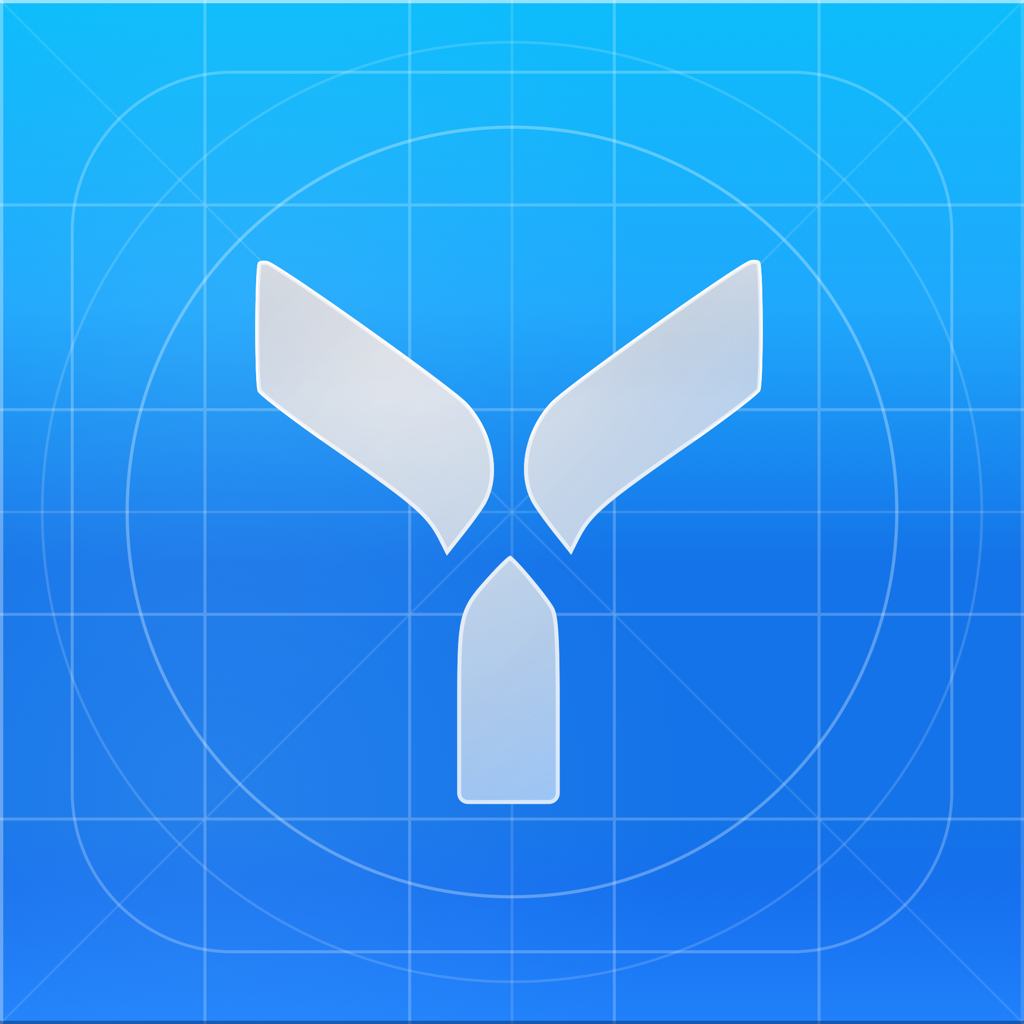
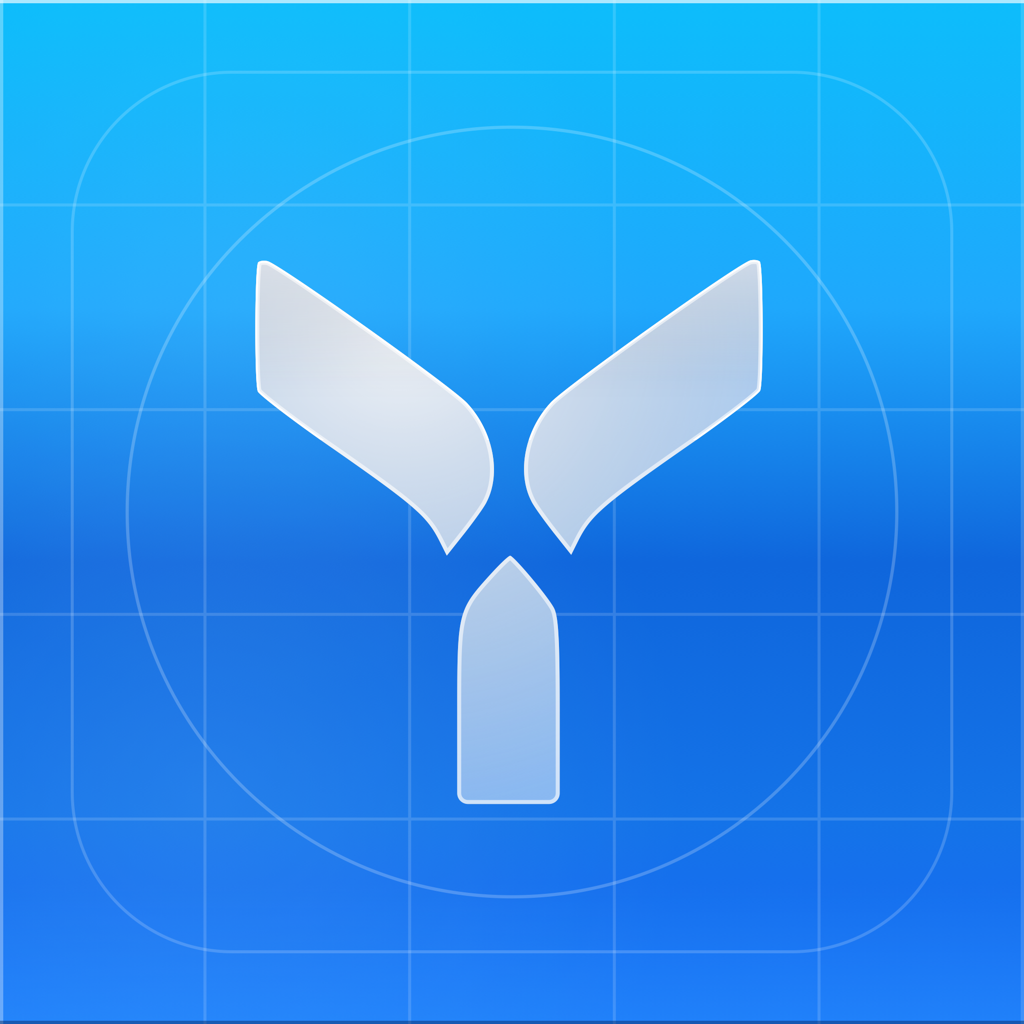
refine(brand): judge at dock size — App Store mass, quiet wireframe
Close-up tuning kept lightening the icon into a pale tile with a pale
mark. Judged at 20-96px against the references instead: deepen the tile
to App Store mass, quiet the wireframe to Xcode levels (grid, circle,
squircle only), bolden the Y body. Small-size legibility verified.

diff --git a/assets/beta/generate-beta-icon.swift b/assets/beta/generate-beta-icon.swift
@@ -93,7 +93,7 @@ func drawIcon(_ p: Palette, name: String) {
 
   // Full-bleed square gradient (the dock supplies the mask).
   let stops = [cg(p.top), cg(p.upperMid), cg(p.lowerMid), cg(p.bottom)] as CFArray
-  if let g = CGGradient(colorsSpace: cs, colors: [cg(p.top), cg(p.upperMid), cg(0x1473E8), cg(p.lowerMid), cg(p.bottom)] as CFArray, locations: [0, 0.3, 0.55, 0.8, 1]) {
+  if let g = CGGradient(colorsSpace: cs, colors: [cg(p.top), cg(p.upperMid), cg(0x0F66DC), cg(p.lowerMid), cg(p.bottom)] as CFArray, locations: [0, 0.3, 0.55, 0.8, 1]) {
     ctx.drawLinearGradient(g, start: CGPoint(x: 0, y: 0), end: CGPoint(x: 0, y: D), options: [.drawsBeforeStartLocation, .drawsAfterEndLocation])
   }
 
@@ -111,7 +111,7 @@ func drawIcon(_ p: Palette, name: String) {
 
   // Blueprint shell: clean 5x5 grid (Xcode 26), guide circles and squircle inset (classic beta)
   ctx.setLineWidth(3)
-  ctx.setStrokeColor(cg(0xFFFFFF, 0.22))
+  ctx.setStrokeColor(cg(0xFFFFFF, 0.15))
   for step in 1...4 {
     let v = CGFloat(step) * D / 5
     ctx.move(to: CGPoint(x: v, y: 0)); ctx.addLine(to: CGPoint(x: v, y: D))
@@ -119,38 +119,20 @@ func drawIcon(_ p: Palette, name: String) {
   }
   ctx.strokePath()
 
-  // Faint cardinal axes
-  ctx.setLineWidth(2.5)
-  ctx.setStrokeColor(cg(0xFFFFFF, 0.14))
-  ctx.move(to: CGPoint(x: 512, y: 0)); ctx.addLine(to: CGPoint(x: 512, y: D))
-  ctx.move(to: CGPoint(x: 0, y: 512)); ctx.addLine(to: CGPoint(x: D, y: 512))
-  ctx.strokePath()
-
-  // Diagonals
-  ctx.setLineWidth(2)
-  ctx.setStrokeColor(cg(0xFFFFFF, 0.12))
-  ctx.move(to: CGPoint(x: 0, y: 0)); ctx.addLine(to: CGPoint(x: D, y: D))
-  ctx.move(to: CGPoint(x: 0, y: D)); ctx.addLine(to: CGPoint(x: D, y: 0))
-  ctx.strokePath()
-
   // Concentric guide circles
   ctx.setLineWidth(3.2)
-  ctx.setStrokeColor(cg(0xFFFFFF, 0.30))
+  ctx.setStrokeColor(cg(0xFFFFFF, 0.22))
   ctx.strokeEllipse(in: CGRect(x: 512 - 385, y: 512 - 385, width: 770, height: 770))
-  ctx.setLineWidth(2.6)
-  ctx.setStrokeColor(cg(0xFFFFFF, 0.15))
-  ctx.strokeEllipse(in: CGRect(x: 512 - 470, y: 512 - 470, width: 940, height: 940))
-
   // Squircle inset guide
   ctx.setLineWidth(3)
-  ctx.setStrokeColor(cg(0xFFFFFF, 0.24))
+  ctx.setStrokeColor(cg(0xFFFFFF, 0.18))
   ctx.addPath(CGPath(roundedRect: CGRect(x: 72, y: 72, width: D - 144, height: D - 144), cornerWidth: 160, cornerHeight: 160, transform: nil))
   ctx.strokePath()
 
   // Depth layer 3: glass rim on the tile edge
   // Directional glass rim: light from top-left, fading clockwise into a deep base.
   ctx.setLineWidth(3)
-  ctx.setStrokeColor(cg(0xFFFFFF, 0.55))
+  ctx.setStrokeColor(cg(0xFFFFFF, 0.65))
   ctx.move(to: CGPoint(x: 0, y: 1.5)); ctx.addLine(to: CGPoint(x: D, y: 1.5)); ctx.strokePath()
   ctx.setStrokeColor(cg(0xFFFFFF, 0.32))
   ctx.move(to: CGPoint(x: 1.5, y: 0)); ctx.addLine(to: CGPoint(x: 1.5, y: D)); ctx.strokePath()
@@ -165,7 +147,7 @@ func drawIcon(_ p: Palette, name: String) {
   ctx.setShadow(offset: CGSize(width: 8, height: -18), blur: 44, color: cg(0x021233, 0.33))
   addMark(to: ctx)
   ctx.clip()
-  if let g = CGGradient(colorsSpace: cs, colors: [cg(0xB9D9FF), cg(0x9CC6F7)] as CFArray, locations: [0, 1]) {
+  if let g = CGGradient(colorsSpace: cs, colors: [cg(0xACD2FA), cg(0x8AB9F2)] as CFArray, locations: [0, 1]) {
     ctx.drawLinearGradient(g, start: CGPoint(x: 0, y: 260), end: CGPoint(x: 0, y: 805), options: [.drawsBeforeStartLocation, .drawsAfterEndLocation])
   }
   if let g = CGGradient(colorsSpace: cs, colors: [cg(0xFFFFFF, 0.9), cg(0xFFFFFF, 0)] as CFArray, locations: [0, 1]) {
@@ -173,9 +155,6 @@ func drawIcon(_ p: Palette, name: String) {
   }
   if let g = CGGradient(colorsSpace: cs, colors: [cg(0xFFFFFF, 0.55), cg(0xFFFFFF, 0)] as CFArray, locations: [0, 1]) {
     ctx.drawLinearGradient(g, start: CGPoint(x: 0, y: 260), end: CGPoint(x: 0, y: 380), options: [.drawsBeforeStartLocation, .drawsAfterEndLocation])
-  }
-  if let g = CGGradient(colorsSpace: cs, colors: [cg(0xFFFFFF, 0.25), cg(0xFFFFFF, 0)] as CFArray, locations: [0, 1]) {
-    ctx.drawLinearGradient(g, start: CGPoint(x: 280, y: 240), end: CGPoint(x: 760, y: 720), options: [.drawsBeforeStartLocation, .drawsAfterEndLocation])
   }
   ctx.restoreGState()
   ctx.saveGState()
